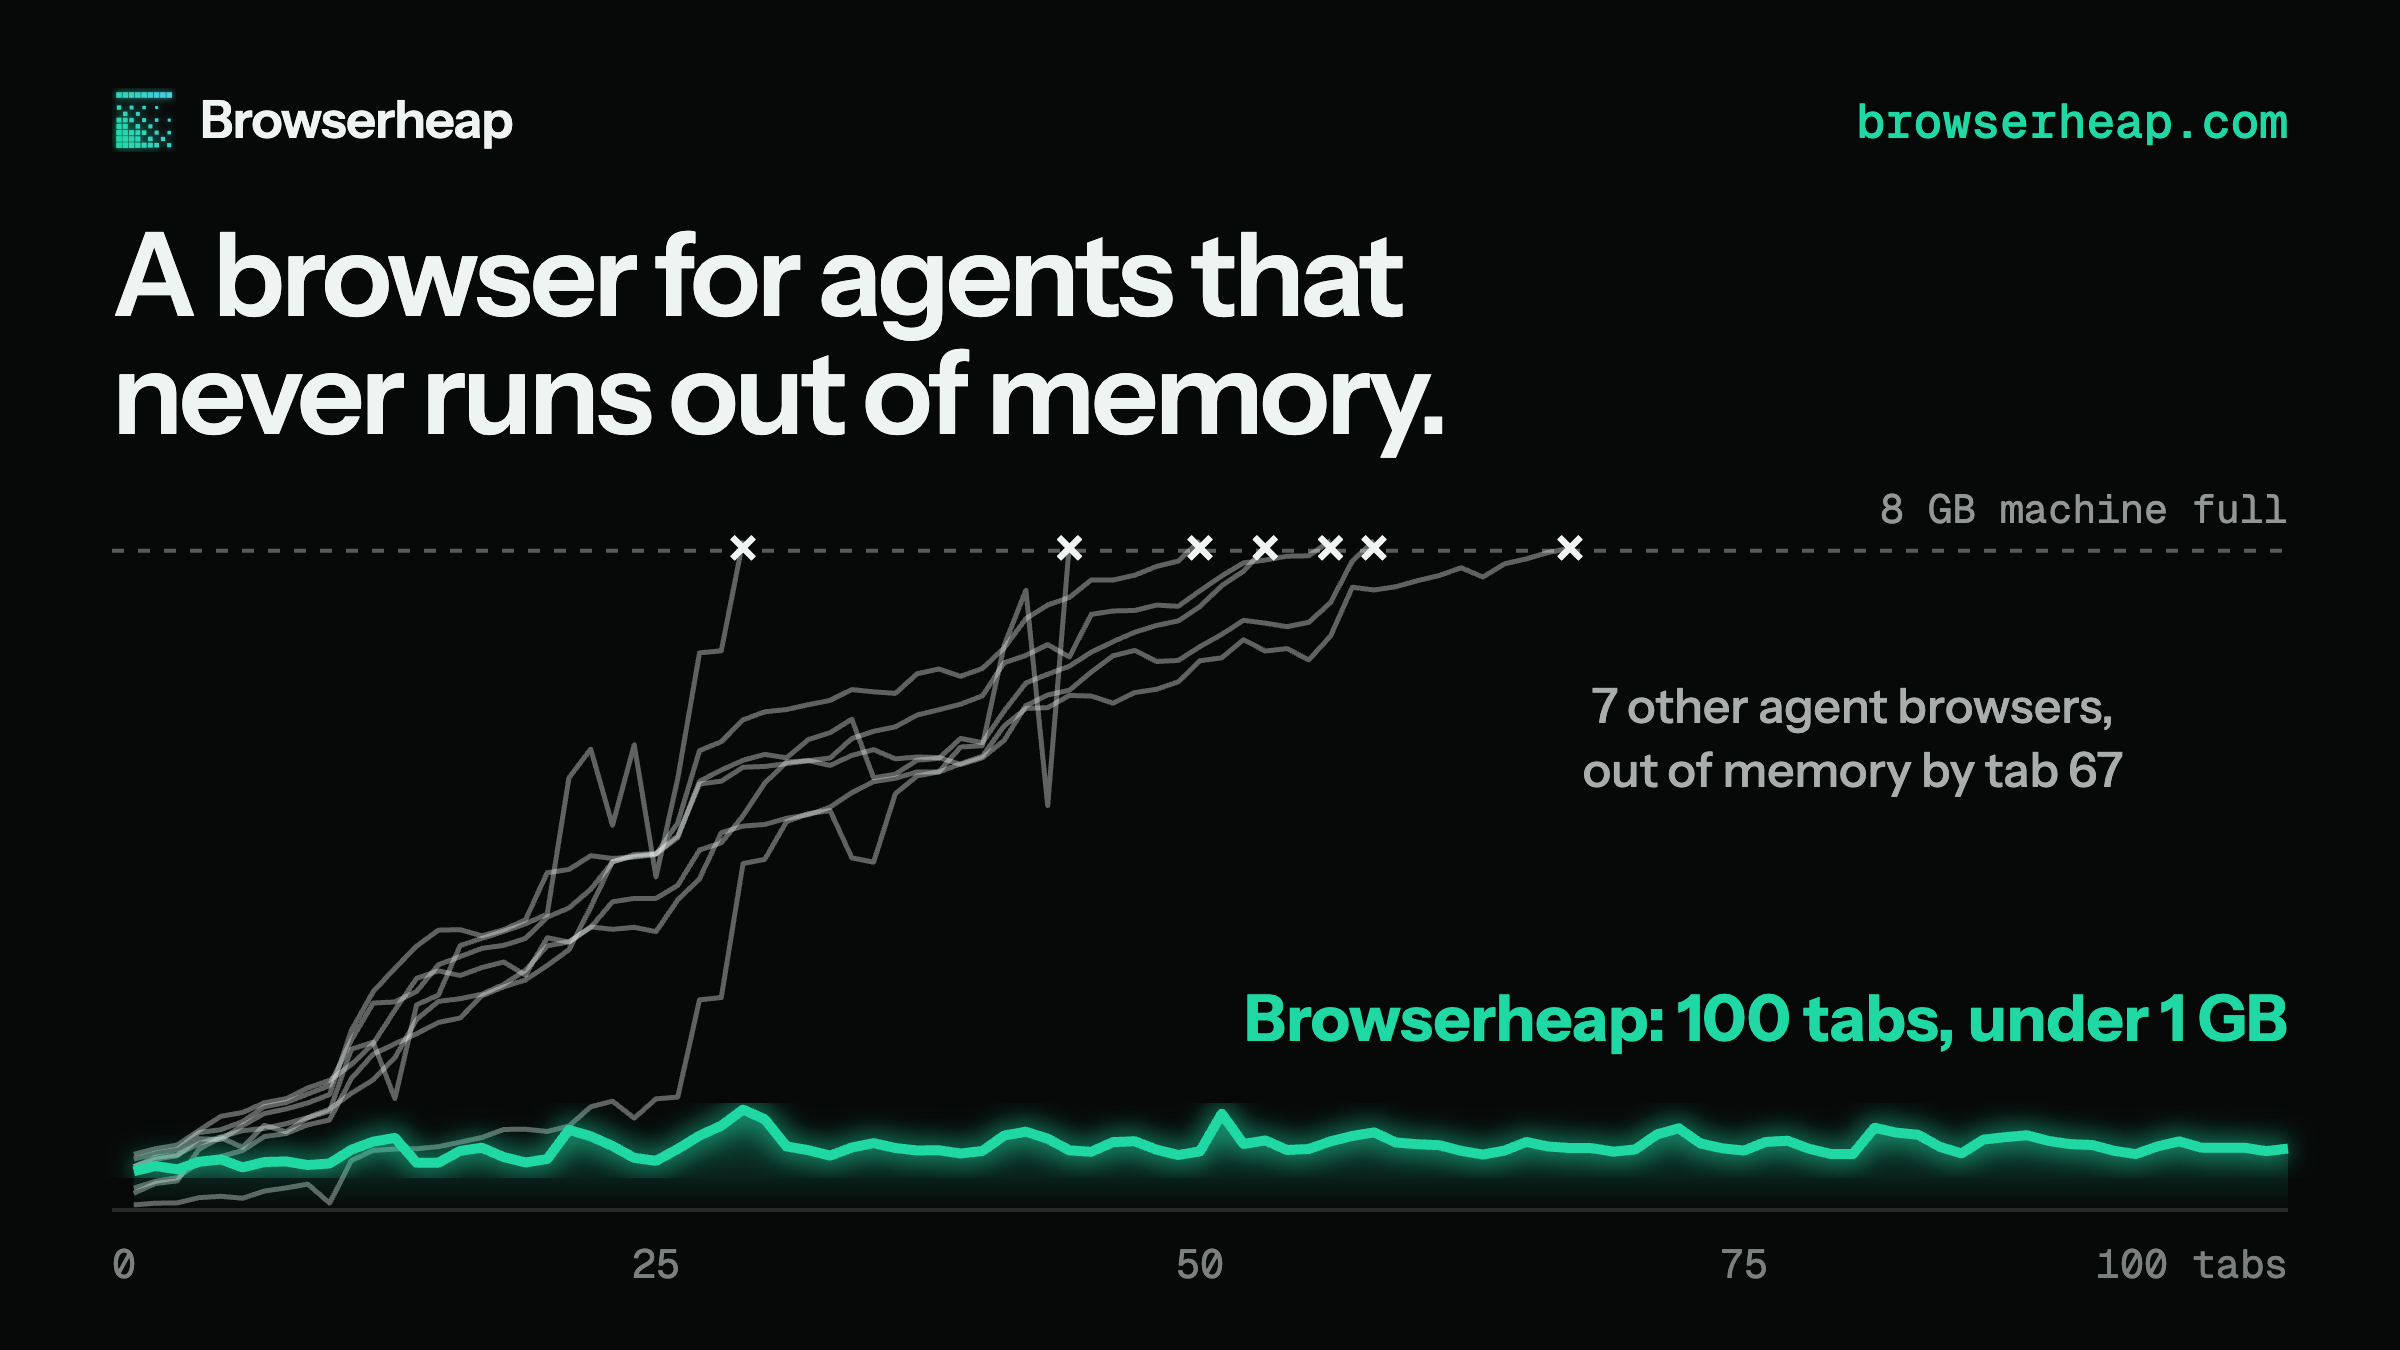
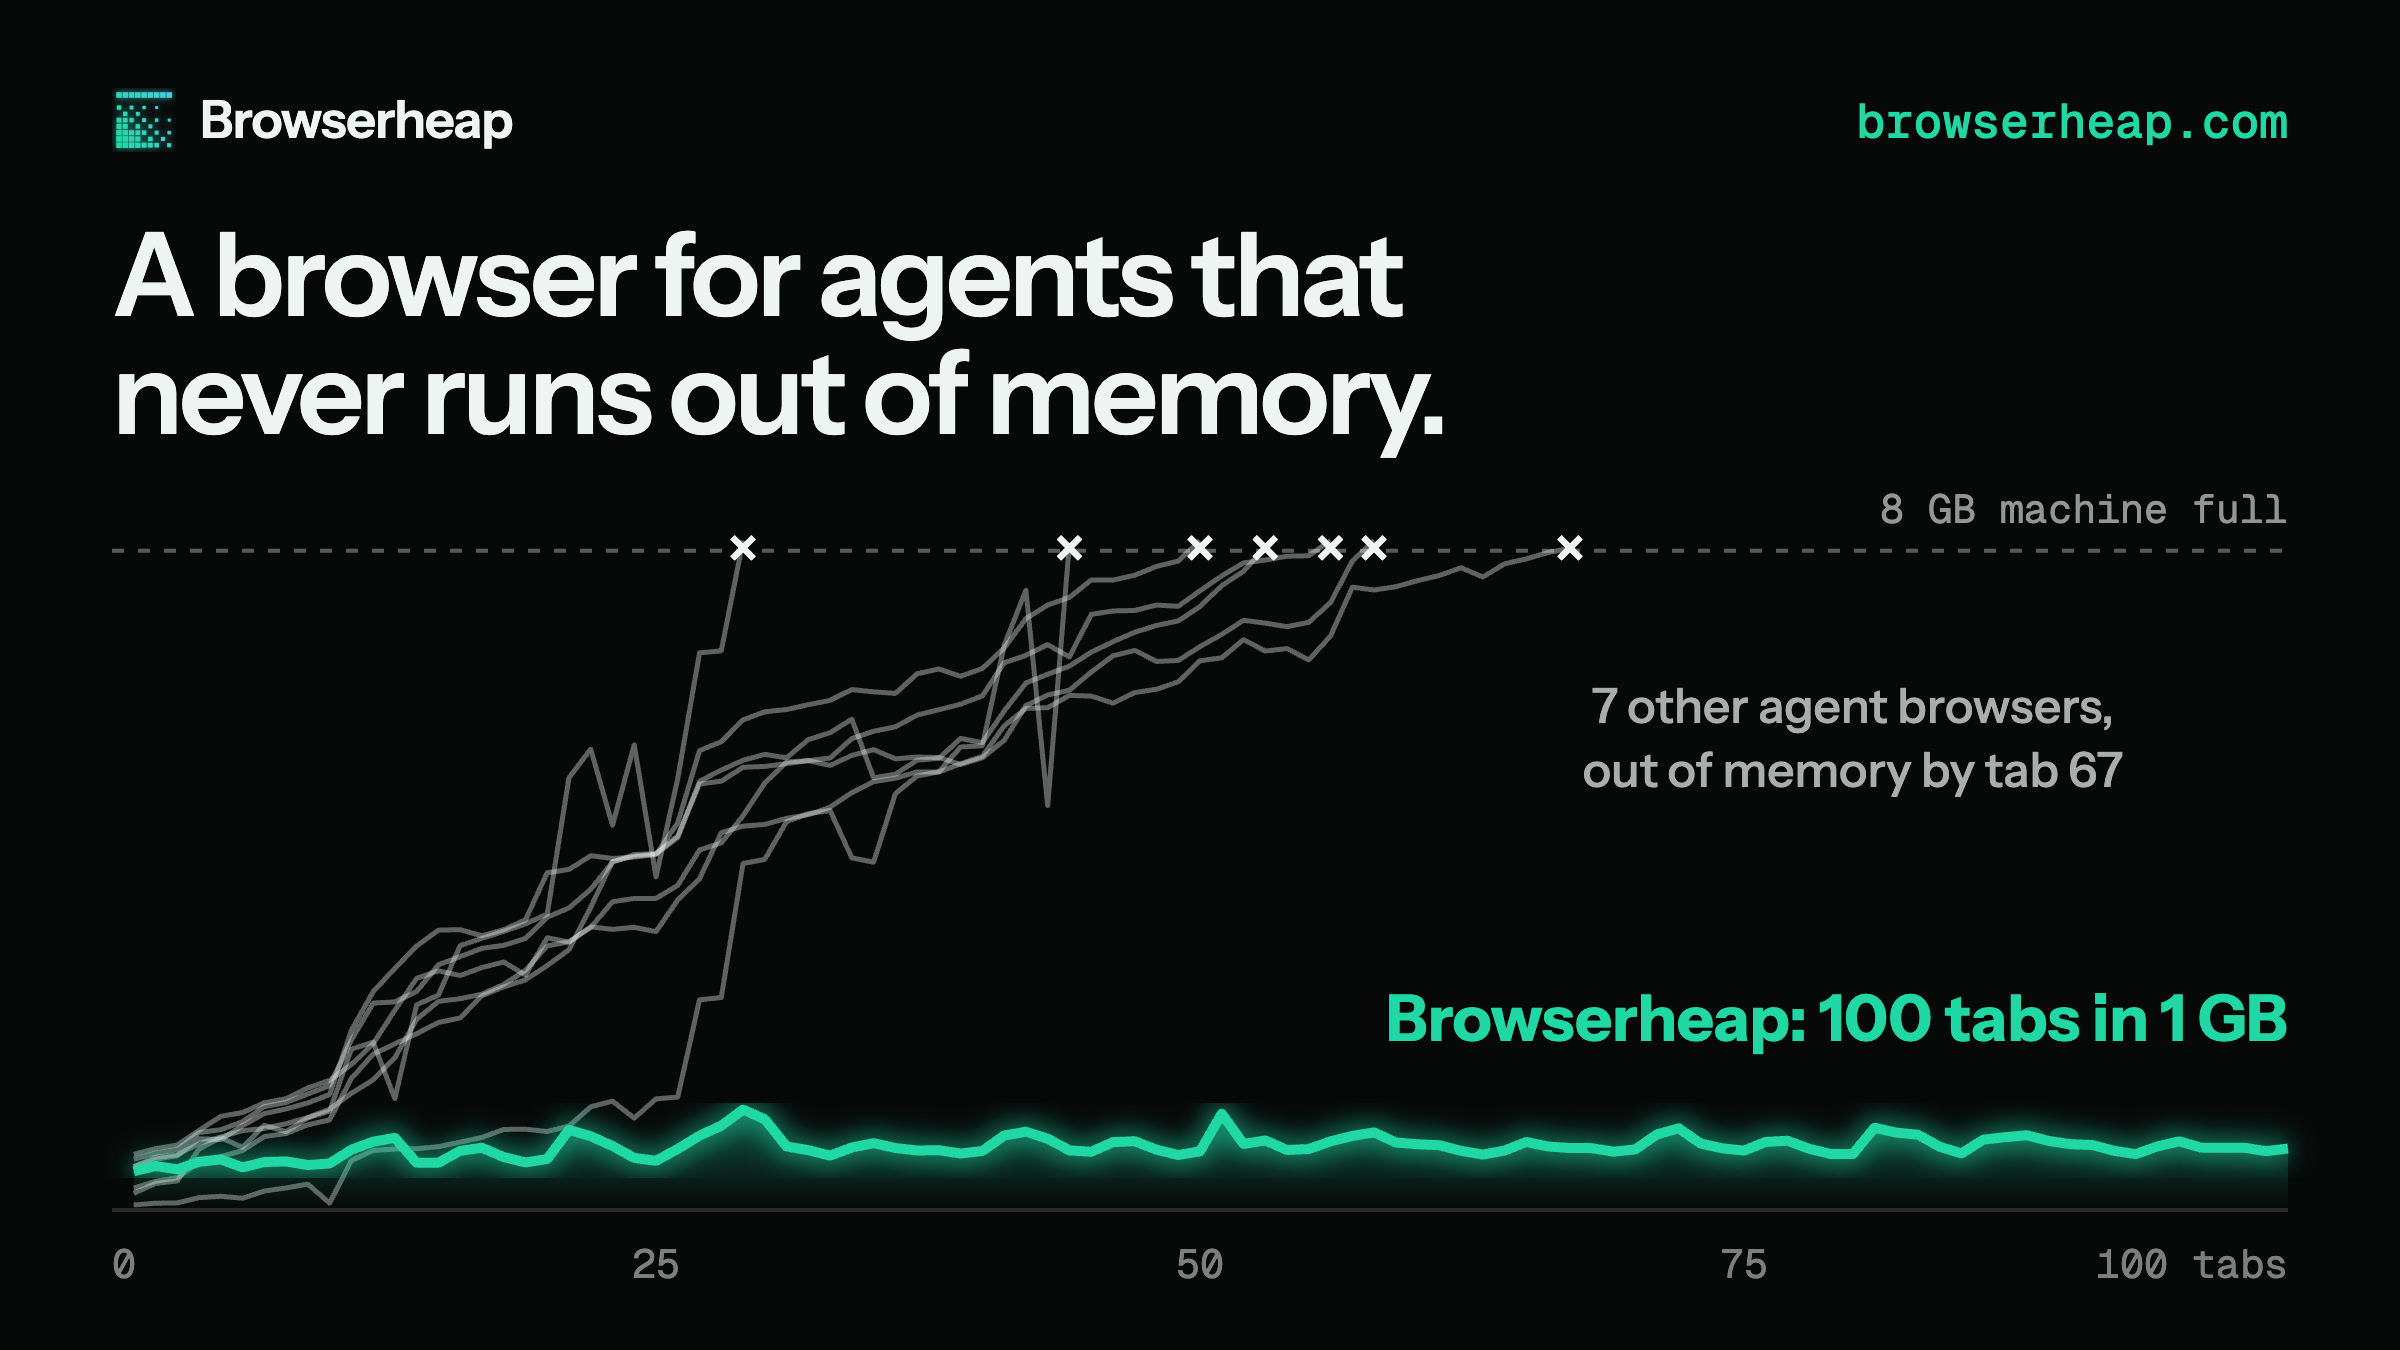
100 tabs in 1 GB: the site's long-run card, the race image and the LinkedIn post, whose first three lines now carry the headline, the gap and the link

Changed region(s): [[0.5, 0.7156, 0.9062, 0.7778]]

diff --git a/media/launch-charts.ts b/media/launch-charts.ts
@@ -100,7 +100,7 @@ function racePage(): string {
   svg += `<polygon points="${x(1)},${plot.bottom} ${points} ${x(100)},${plot.bottom}" fill="url(#fill)"/>`
   svg += `<polyline points="${points}" fill="none" stroke="${JADE}" stroke-width="10" stroke-linejoin="round" filter="url(#glow)" opacity="0.6"/>`
   svg += `<polyline points="${points}" fill="none" stroke="${JADE}" stroke-width="5" stroke-linejoin="round"/>`
-  svg += `<text x="${x(100)}" y="${y(1000) - 34}" fill="${JADE}" font-family="Instrument Sans" font-size="32" font-weight="700" text-anchor="end">Browserheap: 100 tabs, under 1 GB</text>`
+  svg += `<text x="${x(100)}" y="${y(1000) - 34}" fill="${JADE}" font-family="Instrument Sans" font-size="32" font-weight="700" text-anchor="end">Browserheap: 100 tabs in 1 GB</text>`
   svg += `<text x="${x(80)}" y="${y(4800)}" fill="rgb(238 244 241 / 0.7)" font-family="Instrument Sans" font-size="24" font-weight="500" text-anchor="middle">${OTHERS.length} other agent browsers,</text>`
   svg += `<text x="${x(80)}" y="${y(4800) + 32}" fill="rgb(238 244 241 / 0.7)" font-family="Instrument Sans" font-size="24" font-weight="500" text-anchor="middle">out of memory by tab ${lastOther}</text>`
   svg += "</svg>"

diff --git a/site/index.html b/site/index.html
@@ -825,9 +825,9 @@ function scaleClaim(ours, others) {
   const lastOther = Math.max(...others.map((row) => row.value))
   if (ours.text.endsWith("+")) {
     return {
-      // The most it ever used, rounded up to a whole GB: memory moves with
-      // which tabs are awake, so the last tab's number alone would mislead.
-      big: `${ours.value} tabs, under ${Math.ceil(ours.peakMb / 1000)} GB`,
+      // The most it ever used, to the nearest GB: memory moves with which
+      // tabs are awake, so the last tab's number alone would mislead.
+      big: `${ours.value} tabs in ${Math.round(ours.peakMb / 1000)} GB`,
       small: `Every other browser ran out of memory by tab ${lastOther}.`,
     }
   }

diff --git a/media/launch/linkedin.md b/media/launch/linkedin.md
@@ -1,20 +1,20 @@
-Introducing Browserheap: a state-of-the-art browser for long-running agents.
+Introducing Browserheap: a browser for agents that never runs out of memory.
+100 tabs in 1 GB. Every other agent browser ran out of memory by tab 67.
 browserheap.com
 
-On the same 8 GB machine and the same real websites, Browserheap uses 3.7× less memory than agent-browser at 30 tabs, and it is the only browser in the benchmark that reached 100 tabs. Every other one ran out of memory by tab 67.
+Same 8 GB machine, same real websites, default settings for every browser. At 30 tabs, Browserheap uses 3.7× less memory than the next lightest, agent-browser.
 
 Agents open a tab for every page they read and rarely close one. Today's agent browsers either let those tabs pile up until the machine is full, or close them and lose what the agent found. Browserheap keeps every tab. The two in use stay live; the rest sleep and wake the moment the agent needs them.
 
 What's inside:
 • 0.97 GB at 30 tabs (agent-browser 3.62 GB, headless Chrome 4.42 GB)
-• 100 tabs in under 1 GB
 • 3% CPU while the agent thinks (headless Chrome 642%)
 • Sleeping tabs stay readable and searchable, with no reload
 • Full Chromium: 19 of 19 agent actions work, as in Chrome
 • Cookies kept between runs; from a home connection, 0 of 22 bot-checking sites turned it away
 • Works in Claude Code, Codex, any agent's shell, or as a Node library
 
-Default settings for every browser. Every number and the full method: browserheap.com/research
+Every number and the full method: browserheap.com/research
 
 Try it in Claude Code:
 npx browserheap skill claude
